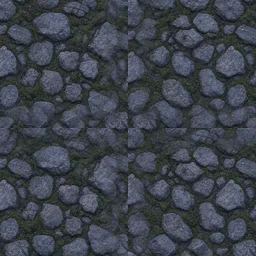
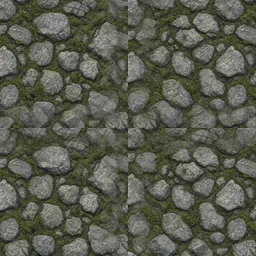
fix(vs): G3 wait readability vs yard_concept
Drop solid tier/sector cell fills in G3; use roof/wall art with
shadows and soft cone/sector wedges. World-space UV, warmer material
boosts, lighter moon grade/vignette, larger units with team rings,
smaller warmer lanterns.

diff --git a/ambush_vs/scripts/build_g3_assets.py b/ambush_vs/scripts/build_g3_assets.py
@@ -204,33 +204,51 @@ def soft_edge_masks(size: int = 64) -> dict[str, Image.Image]:
 	return masks
 
 
-def make_lantern_glow(size: int = 128) -> Image.Image:
+def make_lantern_glow(size: int = 72) -> Image.Image:
+	"""Small warm localized glow (not map-washing discs)."""
 	im = Image.new("RGBA", (size, size), (0, 0, 0, 0))
 	d = ImageDraw.Draw(im)
 	cx = cy = size // 2
-	for r, a in ((size // 2, 35), (size // 3, 70), (size // 6, 120), (8, 200)):
-		d.ellipse((cx - r, cy - r, cx + r, cy + r), fill=(255, 180, 70, a))
+	for r, a in ((size // 2, 22), (size // 3, 48), (size // 6, 120), (5, 210)):
+		d.ellipse((cx - r, cy - r, cx + r, cy + r), fill=(255, 150, 40, a))
 	return im
 
 
-def make_drop_shadow(size: int = 64) -> Image.Image:
+def make_drop_shadow(size: int = 96) -> Image.Image:
 	im = Image.new("RGBA", (size, size), (0, 0, 0, 0))
 	d = ImageDraw.Draw(im)
-	d.ellipse((8, 14, size - 4, size - 2), fill=(0, 0, 0, 110))
-	return im.filter(ImageFilter.GaussianBlur(3))
+	d.ellipse((10, 20, size - 6, size - 4), fill=(0, 0, 0, 100))
+	return im.filter(ImageFilter.GaussianBlur(5))
 
 
 def make_high_edge_trim(size: int = 64) -> Image.Image:
-	"""Yellow-ish edge trim for high-tier readability (ADR-HEIGHT)."""
+	"""Thin warm edge trim for high-tier readability (ADR-HEIGHT)."""
 	im = Image.new("RGBA", (size, size), (0, 0, 0, 0))
 	d = ImageDraw.Draw(im)
-	d.rectangle((1, 1, size - 2, size - 2), outline=(255, 210, 40, 220), width=3)
+	d.rectangle((1, 1, size - 2, size - 2), outline=(255, 214, 96, 200), width=2)
+	return im
+
+
+
+def add_roof_detail(im: Image.Image) -> Image.Image:
+	"""Ridge line + eaves darkening so high cells read as roofs, not grey fills."""
+	im = im.copy()
+	d = ImageDraw.Draw(im)
+	w, h = im.size
+	cx = w // 2
+	# ridge
+	d.line([(cx, 2), (cx, h - 2)], fill=(28, 30, 36, 255), width=max(2, w // 48))
+	d.line([(cx - 1, 2), (cx - 1, h - 2)], fill=(55, 58, 66, 180), width=1)
+	# eaves strip (south / bottom in top-down)
+	for y in range(h - h // 5, h):
+		a = int(90 * (y - (h - h // 5)) / max(1, h // 5))
+		d.line([(0, y), (w, y)], fill=(10, 10, 14, a))
 	return im
 
 
 def moonlight_grade_swatch() -> Image.Image:
-	"""Lookup-ish overlay: cool blue multiply sample for docs/contact."""
-	im = Image.new("RGBA", (64, 64), (40, 70, 110, 90))
+	"""Lookup-ish overlay: very light cool wash for docs/contact."""
+	im = Image.new("RGBA", (64, 64), (40, 48, 62, 22))
 	return im
 
 
@@ -243,15 +261,26 @@ def build_tiles() -> dict:
 		"stonewall": "tex_stonewall.jpg",
 	}
 	meta = {}
+	# Per-material lift so mud/grass/cobble stay distinguishable under moonlight.
+	boosts = {
+		"mud": (1.22, 8.0, (1.12, 0.98, 0.88)),  # warmer brown
+		"grass": (1.18, 6.0, (0.90, 1.18, 0.92)),  # greener
+		"cobble": (1.20, 10.0, (1.05, 1.02, 0.92)),  # less blue-grey
+		"planks": (1.16, 8.0, (1.10, 1.00, 0.90)),
+		"stonewall": (1.14, 8.0, (1.02, 1.00, 0.96)),
+	}
 	for name, src_name in mapping.items():
 		im = Image.open(SRC / src_name)
 		tile = make_seamless(im, TILE_PX)
-		# slight night cool grade baked lightly into tile (still blendable)
+		mul, add, tint = boosts[name]
 		arr = np.asarray(tile).astype(np.float32)
-		arr[..., 0] *= 0.88
-		arr[..., 1] *= 0.92
-		arr[..., 2] = np.clip(arr[..., 2] * 1.05 + 8, 0, 255)
-		tile = Image.fromarray(np.clip(arr, 0, 255).astype(np.uint8), "RGBA")
+		rgb = arr[..., :3] * mul + add
+		rgb *= np.array(tint, dtype=np.float32)
+		# Mild local contrast so world-UV detail reads at map scale.
+		mean = rgb.mean(axis=(0, 1), keepdims=True)
+		rgb = mean + (rgb - mean) * 1.15
+		arr[..., :3] = np.clip(rgb, 0, 255)
+		tile = Image.fromarray(arr.astype(np.uint8), "RGBA")
 		save_webp(tile, f"tiles/{name}.webp")
 		meta[name] = f"tiles/{name}.webp"
 
@@ -259,8 +288,14 @@ def build_tiles() -> dict:
 	w, h = roof.size
 	left = roof.crop((0, 0, w // 2, h))
 	right = roof.crop((w // 2, 0, w, h))
-	slate = make_seamless(left, TILE_PX)
-	shingle = make_seamless(right, TILE_PX)
+
+	def _lift_roof(im: Image.Image) -> Image.Image:
+		arr = np.asarray(im).astype(np.float32)
+		arr[..., :3] = np.clip(arr[..., :3] * 1.18 + 10.0, 0, 255)
+		return Image.fromarray(arr.astype(np.uint8), "RGBA")
+
+	slate = add_roof_detail(_lift_roof(make_seamless(left, TILE_PX)))
+	shingle = add_roof_detail(_lift_roof(make_seamless(right, TILE_PX)))
 	save_webp(slate, "tiles/roof_slate.webp")
 	save_webp(shingle, "tiles/roof_shingle.webp")
 	meta["roof_slate"] = "tiles/roof_slate.webp"
@@ -348,8 +383,8 @@ def build_weapons() -> dict:
 
 
 def build_fx() -> dict:
-	save_webp(make_lantern_glow(128), "fx/lantern_glow.webp", quality=80)
-	save_webp(make_drop_shadow(64), "fx/drop_shadow.webp", quality=80)
+	save_webp(make_lantern_glow(72), "fx/lantern_glow.webp", quality=80)
+	save_webp(make_drop_shadow(96), "fx/drop_shadow.webp", quality=80)
 	save_webp(make_high_edge_trim(64), "fx/high_edge.webp", quality=90)
 	save_webp(moonlight_grade_swatch(), "fx/moonlight_tint.webp", quality=80)
 	# vignette (white=keep, black=darken) stored as alpha mask style
@@ -362,9 +397,9 @@ def build_fx() -> dict:
 			dx = (x - cx) / cx
 			dy = (y - cy) / cy
 			r = math.sqrt(dx * dx + dy * dy)
-			v = int(np.clip((r - 0.55) / 0.65, 0, 1) * 160)
+			v = int(np.clip((r - 0.82) / 0.50, 0, 1) * 42)
 			px[x, y] = v
-	vig_rgba = Image.merge("RGBA", (Image.new("L", (size, size), 8), Image.new("L", (size, size), 12), Image.new("L", (size, size), 28), vig))
+	vig_rgba = Image.merge("RGBA", (Image.new("L", (size, size), 6), Image.new("L", (size, size), 8), Image.new("L", (size, size), 18), vig))
 	save_webp(vig_rgba, "fx/vignette.webp", quality=80)
 	masks = soft_edge_masks(64)
 	for k, m in masks.items():

diff --git a/.cursor/docs/VS_G3_ART_20261017.md b/.cursor/docs/VS_G3_ART_20261017.md
@@ -26,18 +26,29 @@ chatgpt:unavailable（Cloud Agent；无网页 ChatGPT 桥）
 
 ## 已知缺口
 
-- Pages 环境可能拒 `vs/g3`（与 `vs/g2` 同类 403）
 - 源 JPG 不进 Web 包；真机陌生人门仍待补
+- 扇区叠色在多干员重叠处仍略偏绿（楔形 ≤10% α，无逐格填充）
+
+## 可读性抛光（相对 yard_concept）
+
+已确认问题：wait 仍像扁平蓝灰盒（G1 式灰/绿块洗掉贴图）。本切片改动：
+
+1. **G3 无实体层级填充**——高地用屋面/墙顶贴图 + 落影 + 细边；可见性仅锥/扇区轮廓 + 楔形淡色（≤15% α）；「点地面」预览仍可高亮格
+2. **世界空间 UV**（约 4 格/贴图）+ 材质分流提亮（泥褐/草绿/石板灰）+ 更轻月光/暗角
+3. **建筑**：高地 slate/shingle 脊线与檐影；structure 用 shed_roof 道具
+4. **单位** ≈1.6× + 软落影 + 全队黄环
+5. **灯笼**更小、更暖、仅 3 处
 
 ## 验证记录
 
 | 项 | 结果 |
 | --- | --- |
-| Tip | `ee06709` on `vs/g3` |
+| Tip | （本抛光提交后更新）on `vs/g3` |
 | W2 | 61 pass / 0 fail |
 | W3 | 26 pass / 0 fail（含 G3 路径） |
-| 本地 Web | **41MB**（pck **2.3MB** + wasm 38MB；源 JPG 已 exclude） |
-| Pages | **build+deploy success** → https://hailinsu-create.github.io/ambush-loop/greybox/ |
-| PR | → `vs/g2` |
+| 截图自检 | wait vs `yard_concept`：泥/草/石可辨；无大块灰绿实体填充；锥/扇区可读 |
+| 本地 Web | （redeploy 后更新） |
+| Pages | → https://hailinsu-create.github.io/ambush-loop/greybox/ |
+| PR | #57 → `vs/g2` |
 
 chatgpt:unavailable
